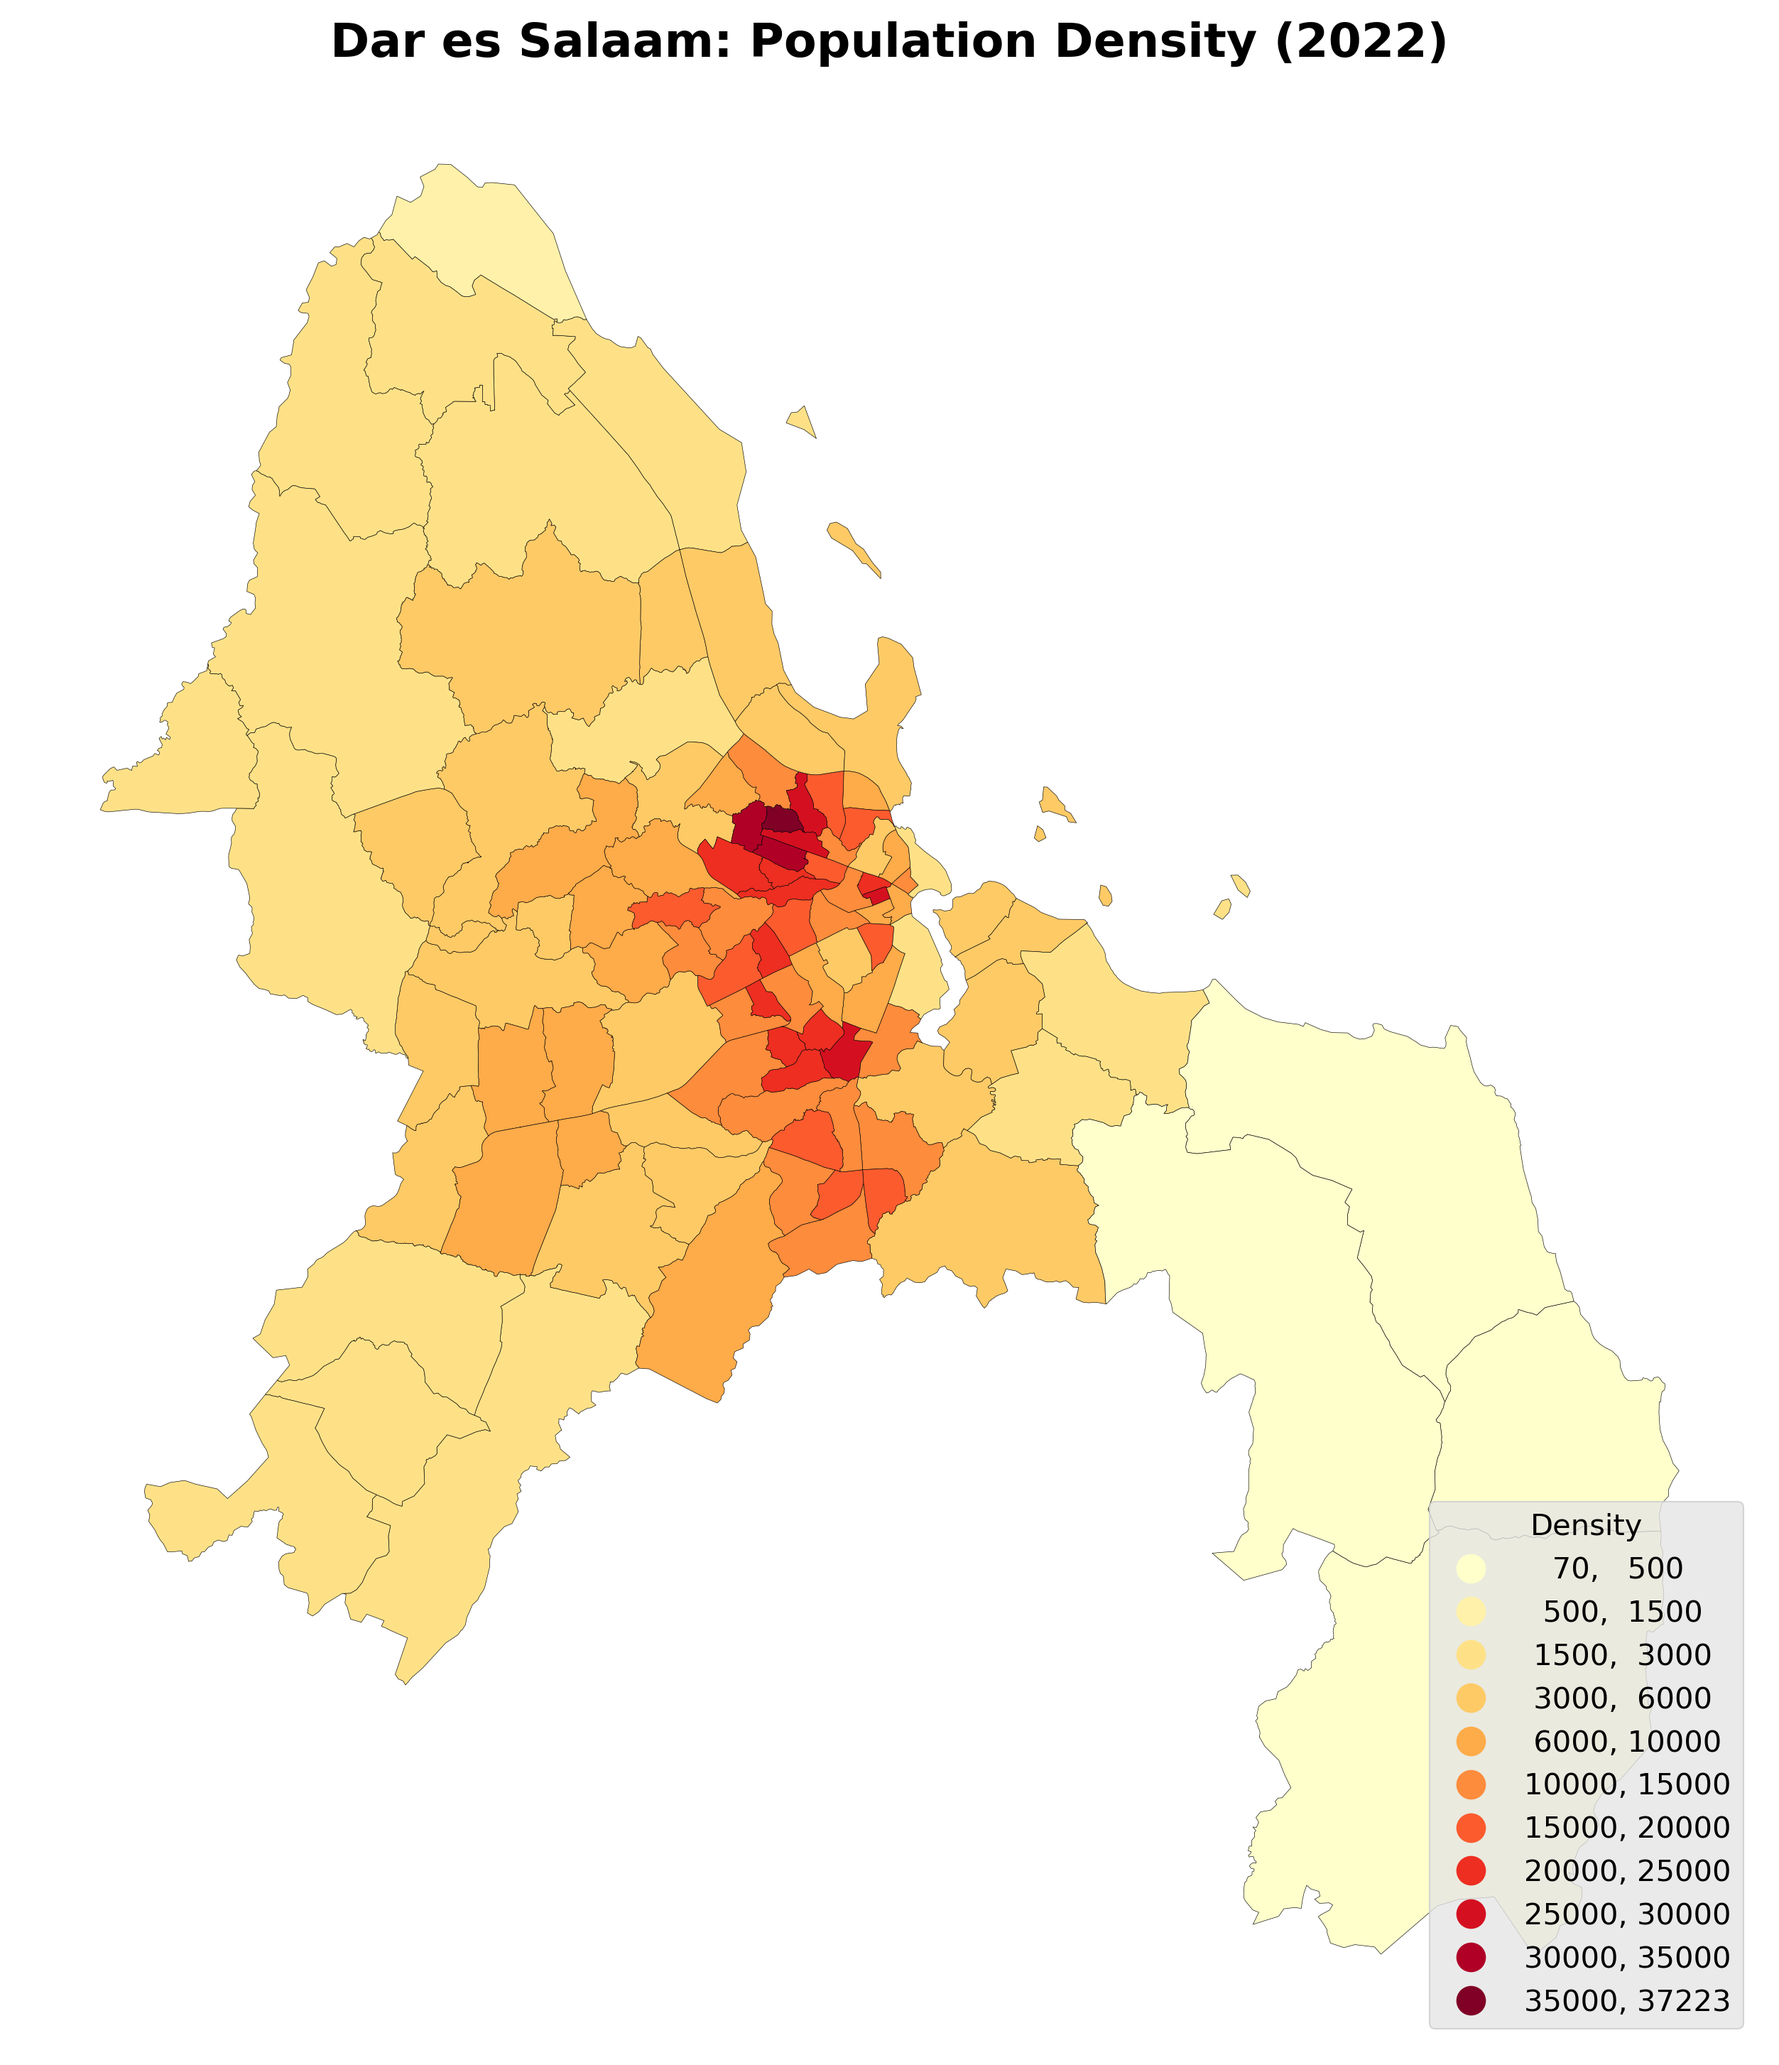
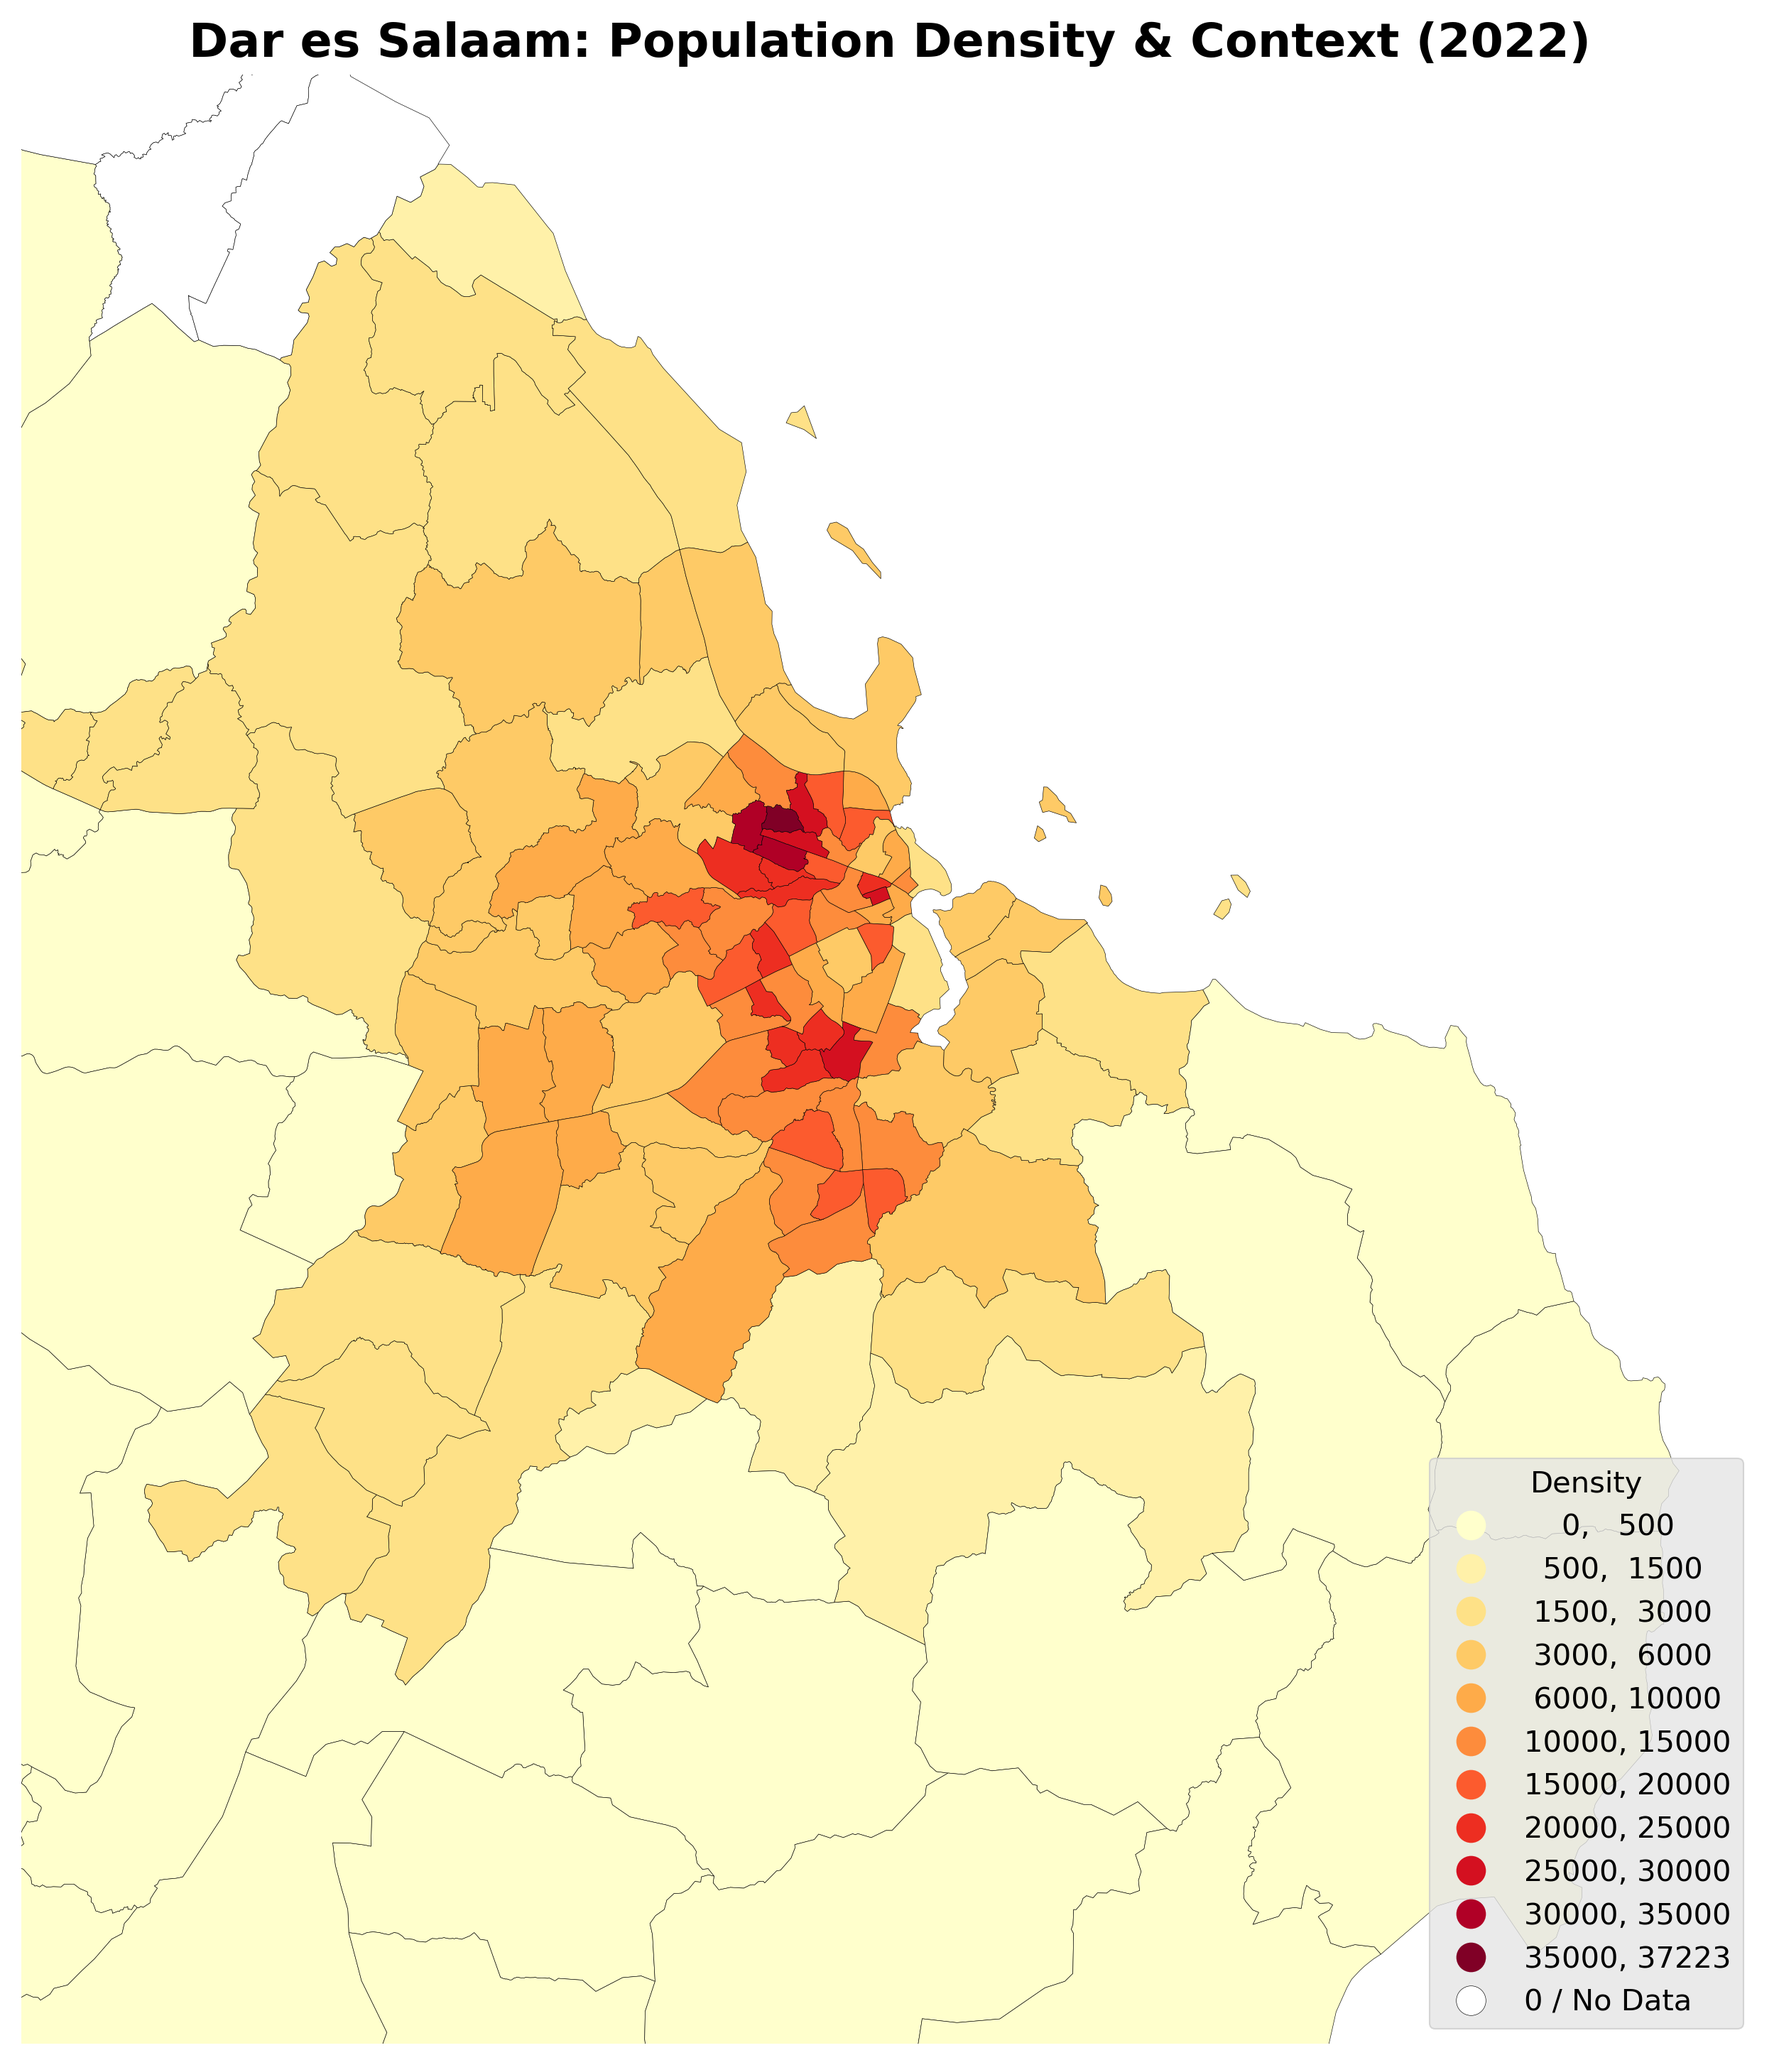
Enhance zoom maps with contextual geography and padding (v1.7)

diff --git a/scripts/analysis.py b/scripts/analysis.py
@@ -46,35 +46,58 @@ def perform_analysis(gpkg_path, output_dir):
     plt.close()
 
     # 2. Zoom - Dar es Salaam
-    print("Generating Dar es Salaam zoom map...")
-    dar_gdf = gdf[gdf['reg_name'].str.contains('Dar es Salaam', case=False, na=False)].copy()
-    if not dar_gdf.empty:
+    print("Generating Dar es Salaam zoom map with context...")
+    dar_extent = gdf[gdf['reg_name'].str.contains('Dar es Salaam', case=False, na=False)]
+    if not dar_extent.empty:
         fig, ax = plt.subplots(1, 1, figsize=(12, 12))
+        ax.set_facecolor('#ffffff')
+        
+        # Calculate bounds with 5% padding
+        minx, miny, maxx, maxy = dar_extent.total_bounds
+        padx = (maxx - minx) * 0.05
+        pady = (maxy - miny) * 0.05
+        
         dar_breaks = [500, 1500, 3000, 6000, 10000, 15000, 20000, 25000, 30000, 35000]
-        dar_gdf.plot(column='density', ax=ax, legend=True, 
+        
+        # Plot full dataset, but axis limits will crop it
+        gdf.plot(column='density', ax=ax, legend=True, 
                 scheme='UserDefined', classification_kwds={'bins': dar_breaks},
                 cmap='YlOrRd',
                 edgecolor='black', linewidth=0.15,
                 missing_kwds={"color": "white", "edgecolor": "black", "label": "0 / No Data"},
                 legend_kwds={'title': "Density", 'loc': 'lower right', 'fmt': "{:.0f}"})
-        ax.set_title("Dar es Salaam: Population Density (2022)", fontsize=16, fontweight='bold')
+        
+        ax.set_xlim(minx - padx, maxx + padx)
+        ax.set_ylim(miny - pady, maxy + pady)
+        ax.set_title("Dar es Salaam: Population Density & Context (2022)", fontsize=16, fontweight='bold')
         ax.axis('off')
         plt.savefig(os.path.join(output_dir, "zoom_dar_density.png"), dpi=300, bbox_inches='tight')
         plt.close()
 
     # 3. Zoom - Zanzibar
-    print("Generating Zanzibar zoom map...")
-    znz_gdf = gdf[gdf['reg_name'].str.contains('Unguja|Pemba|Zanzibar', case=False, na=False)].copy()
-    if not znz_gdf.empty:
+    print("Generating Zanzibar zoom map with context...")
+    znz_extent = gdf[gdf['reg_name'].str.contains('Unguja|Pemba|Zanzibar', case=False, na=False)]
+    if not znz_extent.empty:
         fig, ax = plt.subplots(1, 1, figsize=(12, 12))
+        ax.set_facecolor('#ffffff')
+        
+        # Calculate bounds with 10% padding (islands need more air)
+        minx, miny, maxx, maxy = znz_extent.total_bounds
+        padx = (maxx - minx) * 0.1
+        pady = (maxy - miny) * 0.1
+        
         znz_breaks = [50, 150, 300, 500, 750, 1000, 1500, 2000, 3000, 4000]
-        znz_gdf.plot(column='density', ax=ax, legend=True, 
+        
+        gdf.plot(column='density', ax=ax, legend=True, 
                 scheme='UserDefined', classification_kwds={'bins': znz_breaks},
                 cmap='YlOrRd',
                 edgecolor='black', linewidth=0.15,
                 missing_kwds={"color": "white", "edgecolor": "black", "label": "0 / No Data"},
                 legend_kwds={'title': "Density", 'loc': 'lower right', 'fmt': "{:.0f}"})
-        ax.set_title("Zanzibar: Population Density (2022)", fontsize=16, fontweight='bold')
+        
+        ax.set_xlim(minx - padx, maxx + padx)
+        ax.set_ylim(miny - pady, maxy + pady)
+        ax.set_title("Zanzibar: Population Density & Context (2022)", fontsize=16, fontweight='bold')
         ax.axis('off')
         plt.savefig(os.path.join(output_dir, "zoom_zanzibar_density.png"), dpi=300, bbox_inches='tight')
         plt.close()
